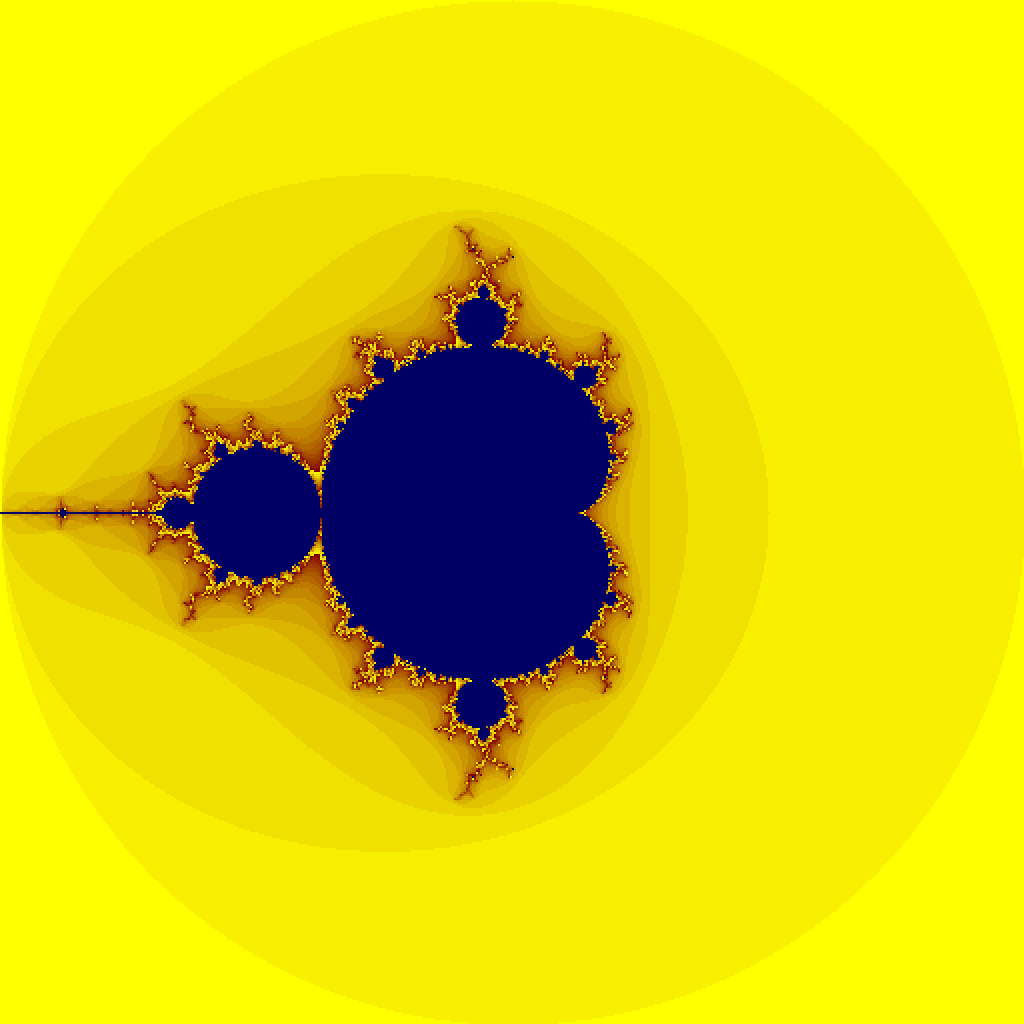
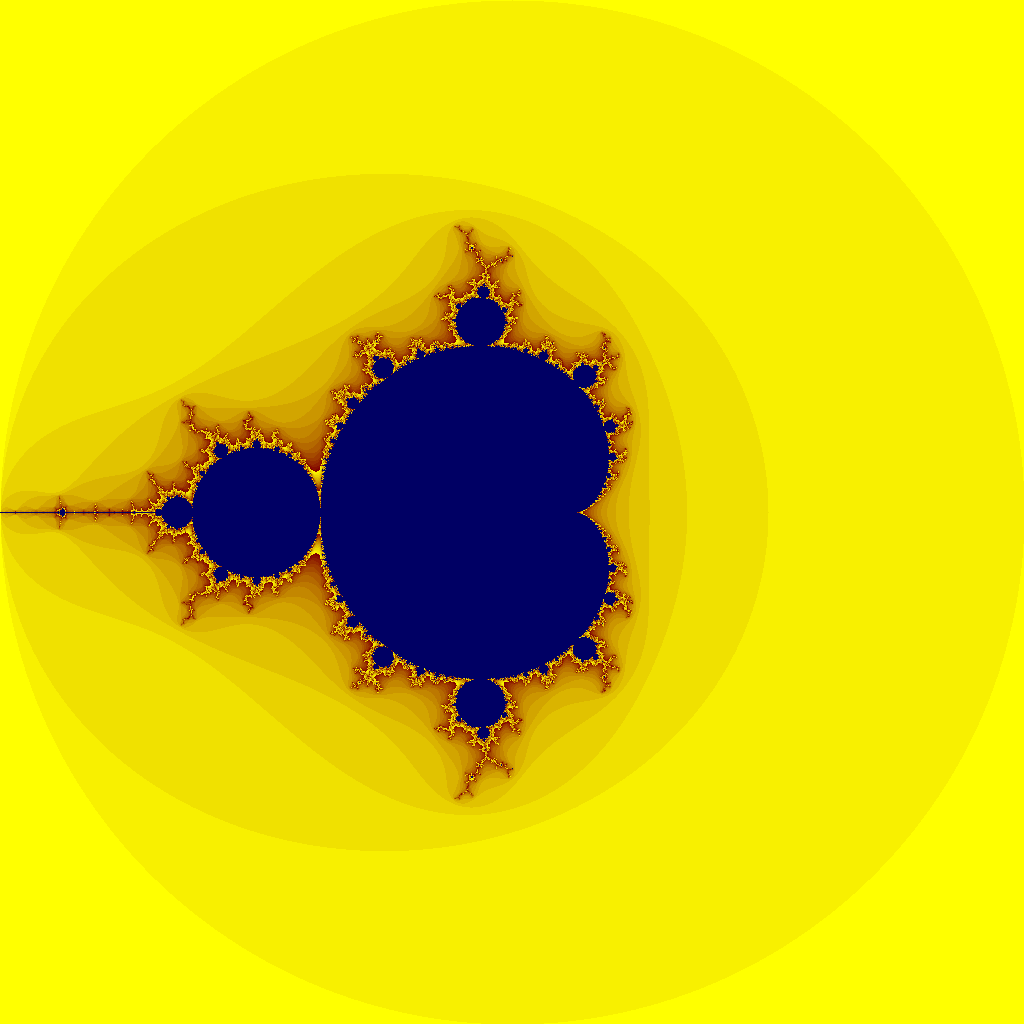
ex3.8

diff --git a/ch3/ex3.8/main.go b/ch3/ex3.8/main.go
@@ -1,0 +1,173 @@
+// Mandelbrot emits a PNG image of the Mandelbrot fractal.
+/*
+通过提高精度来生成更多级别的分形。使用四种不同精度类型的数字实现相同的分形：complex64、complex128、big.Float和big.Rat。（后面两种类型在math/big包声明。Float是有指定限精度的浮点数；Rat是无限精度的有理数。）它们间的性能和内存使用对比如何？当渲染图可见时缩放的级别是多少？
+*/
+
+// ref: https://github.com/torbiak/gopl/blob/master/ex3.8/main.go
+package main
+
+import (
+	"image"
+	"image/color"
+	"image/png"
+	"math/cmplx"
+	"os"
+	"time"
+	"fmt"
+	"math/big"
+)
+
+
+func main() {
+	const (
+		xmin, ymin, xmax, ymax = -2, -2, +2, +2
+		width, height          = 1024, 1024
+	)
+	start := time.Now()
+	png1, _ := os.Create("./mandelbrot1.png")
+	img := image.NewRGBA(image.Rect(0, 0, width, height))
+	for py := 0; py < height; py++ {
+		y := float64(py)/height*(ymax-ymin) + ymin
+		for px := 0; px < width; px++ {
+			x := float64(px)/width*(xmax-xmin) + xmin
+			var z complex128
+			z = complex(x, y)
+			// Image point (px, py) represents complex value z.
+			img.Set(px, py, mandelbrot128(z))
+
+		}
+	}
+	png.Encode(png1, img) // NOTE: ignoring errors
+	fmt.Printf("elapsed %f\n", time.Since(start).Seconds())
+
+	start = time.Now()
+	png2, _ := os.Create("./mandelbrot2.png")
+	img = image.NewRGBA(image.Rect(0, 0, width, height))
+	for py := 0; py < height; py++ {
+		y := float64(py)/height*(ymax-ymin) + ymin
+		for px := 0; px < width; px++ {
+			x := float64(px)/width*(xmax-xmin) + xmin
+			z := complex(x, y)
+			// Image point (px, py) represents complex value z.
+			img.Set(px, py, mandelbrot64(z))
+
+		}
+	}
+	png.Encode(png2, img) // NOTE: ignoring errors
+	fmt.Printf("elapsed %f\n", time.Since(start).Seconds())
+
+
+	start = time.Now()
+	png3, _ := os.Create("./mandelbrot3.png")
+	img = image.NewRGBA(image.Rect(0, 0, width, height))
+	for py := 0; py < height; py++ {
+		y := float64(py)/height*(ymax-ymin) + ymin
+		for px := 0; px < width; px++ {
+			x := float64(px)/width*(xmax-xmin) + xmin
+			z := complex(x, y)
+			// Image point (px, py) represents complex value z.
+			img.Set(px, py, mandelbrotBigFloat(z))
+
+		}
+	}
+	png.Encode(png3, img) // NOTE: ignoring errors
+	fmt.Printf("elapsed %f\n", time.Since(start).Seconds())
+
+	start = time.Now()
+	png4, _ := os.Create("./mandelbrot4.png")
+	img = image.NewRGBA(image.Rect(0, 0, width, height))
+	for py := 0; py < height; py++ {
+		y := float64(py)/height*(ymax-ymin) + ymin
+		for px := 0; px < width; px++ {
+			x := float64(px)/width*(xmax-xmin) + xmin
+			z := complex(x, y)
+			// Image point (px, py) represents complex value z.
+			img.Set(px, py, mandelbrotRat(z))
+
+		}
+	}
+	png.Encode(png4, img) // NOTE: ignoring errors
+	fmt.Printf("elapsed %f\n", time.Since(start).Seconds())
+
+
+	defer png1.Close()
+	defer png2.Close()
+	defer png3.Close()
+	defer png4.Close()
+}
+
+func mandelbrot128(z complex128) color.Color {
+	const iterations = 200
+	const contrast = 15
+
+	var v complex128
+	for n := uint8(0); n < iterations; n++ {
+		v = v*v + z
+		if cmplx.Abs(v) > 2 {
+			return color.Gray{255 - contrast*n}
+		}
+	}
+	return color.Black
+}
+
+func mandelbrot64(z complex128) color.Color {
+	const iterations = 200
+	const contrast = 15
+
+	var v complex64
+	for n := uint8(0); n < iterations; n++ {
+		v = v*v + complex64(z)
+		if cmplx.Abs(complex128(v)) > 2 {
+			return color.Gray{255 - contrast*n}
+		}
+	}
+	return color.Black
+}
+
+func mandelbrotBigFloat(z complex128) color.Color {
+	const iterations = 200
+	const contrast = 15
+
+	zR := (&big.Float{}).SetFloat64(real(z))
+	zI := (&big.Float{}).SetFloat64(imag(z))
+
+	var vR, vI = &big.Float{}, &big.Float{}
+
+	for n := uint8(0); n < iterations; n++ {
+		// (r+i)^2 = r^2 + 2ri + i^2
+		vR2, vI2 := &big.Float{}, &big.Float{}
+		vR2.Mul(vR, vR).Sub(vR2, (&big.Float{}).Mul(vI, vI)).Add(vR2, zR)
+		vI2.Mul(vR, vI).Mul(vI2, big.NewFloat(2)).Add(vI2, zI)
+		vR, vI = vR2, vI2
+		squareSum := &big.Float{}
+		squareSum.Mul(vR, vR).Add(squareSum, (&big.Float{}).Mul(vI, vI))
+
+		if squareSum.Cmp(big.NewFloat(4)) == 1 {
+			return color.Gray{255 - contrast*n}
+		}
+	}
+	return color.Black
+}
+
+func mandelbrotRat(z complex128) color.Color {
+	// 有生之年
+	const iterations = 20
+	const contrast = 15
+
+	zR := (&big.Rat{}).SetFloat64(real(z))
+	zI := (&big.Rat{}).SetFloat64(imag(z))
+	var vR, vI = &big.Rat{}, &big.Rat{}
+	for n := uint8(0); n < iterations; n++ {
+		// (r+i)^2 = r^2 + 2ri + i^2
+		vR2, vI2 := &big.Rat{}, &big.Rat{}
+		vR2.Mul(vR, vR).Sub(vR2, (&big.Rat{}).Mul(vI, vI)).Add(vR2, zR)
+		vI2.Mul(vR, vI).Mul(vI2, big.NewRat(2, 1)).Add(vI2, zI)
+		vR, vI = vR2, vI2
+		squareSum := &big.Rat{}
+		squareSum.Mul(vR, vR).Add(squareSum, (&big.Rat{}).Mul(vI, vI))
+		if squareSum.Cmp(big.NewRat(4, 1)) == 1 {
+			return color.Gray{255 - contrast*n}
+		}
+	}
+	return color.Black
+}

diff --git a/ch3/ex3.6/main.go b/ch3/ex3.6/main.go
@@ -18,9 +18,9 @@ func main() {
 	)
 
 	img := image.NewRGBA(image.Rect(0, 0, width, height))
-	for py := 0; py < height; py+=2 {
+	for py := 0; py < height; py++ {
 		y := float64(py)/height*(ymax-ymin) + ymin
-		for px := 0; px < width; px+=2 {
+		for px := 0; px < width; px++ {
 			x := float64(px)/width*(xmax-xmin) + xmin
 			z := complex(x, y)
 			// Image point (px, py) represents complex value z.
